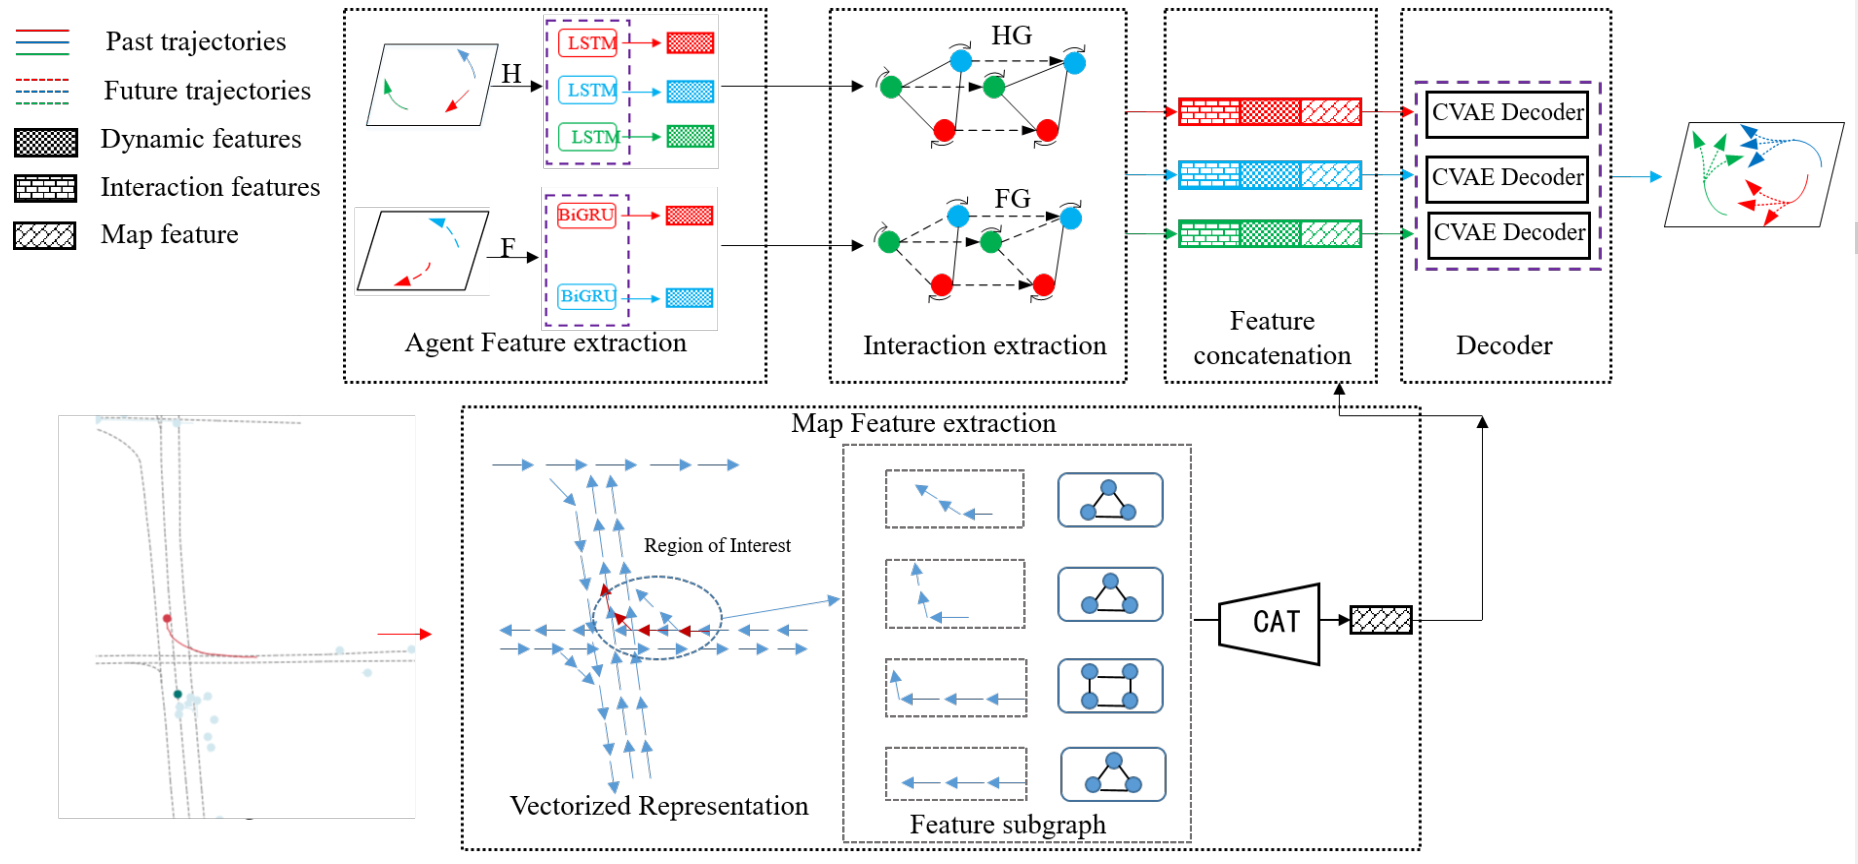
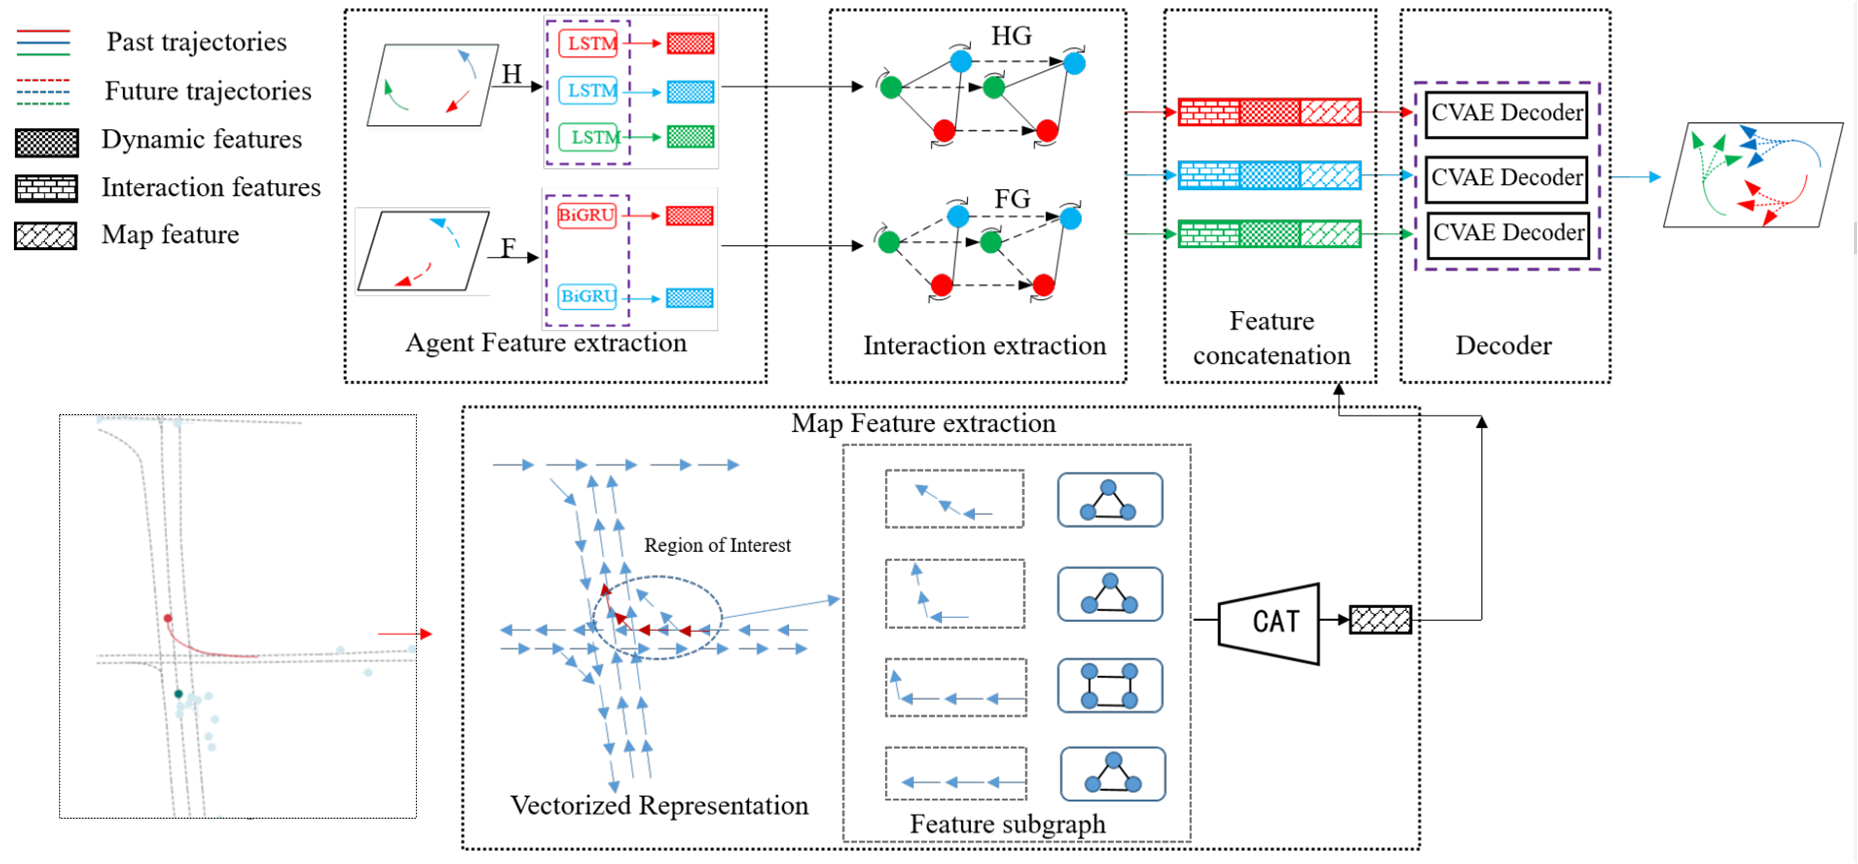
1

diff --git a/_pages/research.md b/_pages/research.md
@@ -22,5 +22,5 @@ author_profile: true
 * Added the vectorized representations of each lane in the road map to the prediction model to realize road geometry-aware trajectory prediciton.
 * Proposed a graph neural network based prediction model with both spatial and temporal attention mechanisms and map feature extraction block to take interactions and road geometry into account when predicting vehicle trajectories.
 
-<center> <img src="https://github.com/hzxbzp/hzxbzp.github.io/blob/master/files/graph.png?raw=true" style="zoom:70%" /> </center>
+<center> <img src="https://github.com/hzxbzp/hzxbzp.github.io/blob/master/files/graph.png?raw=true" style="zoom:100%" /> </center>
 
